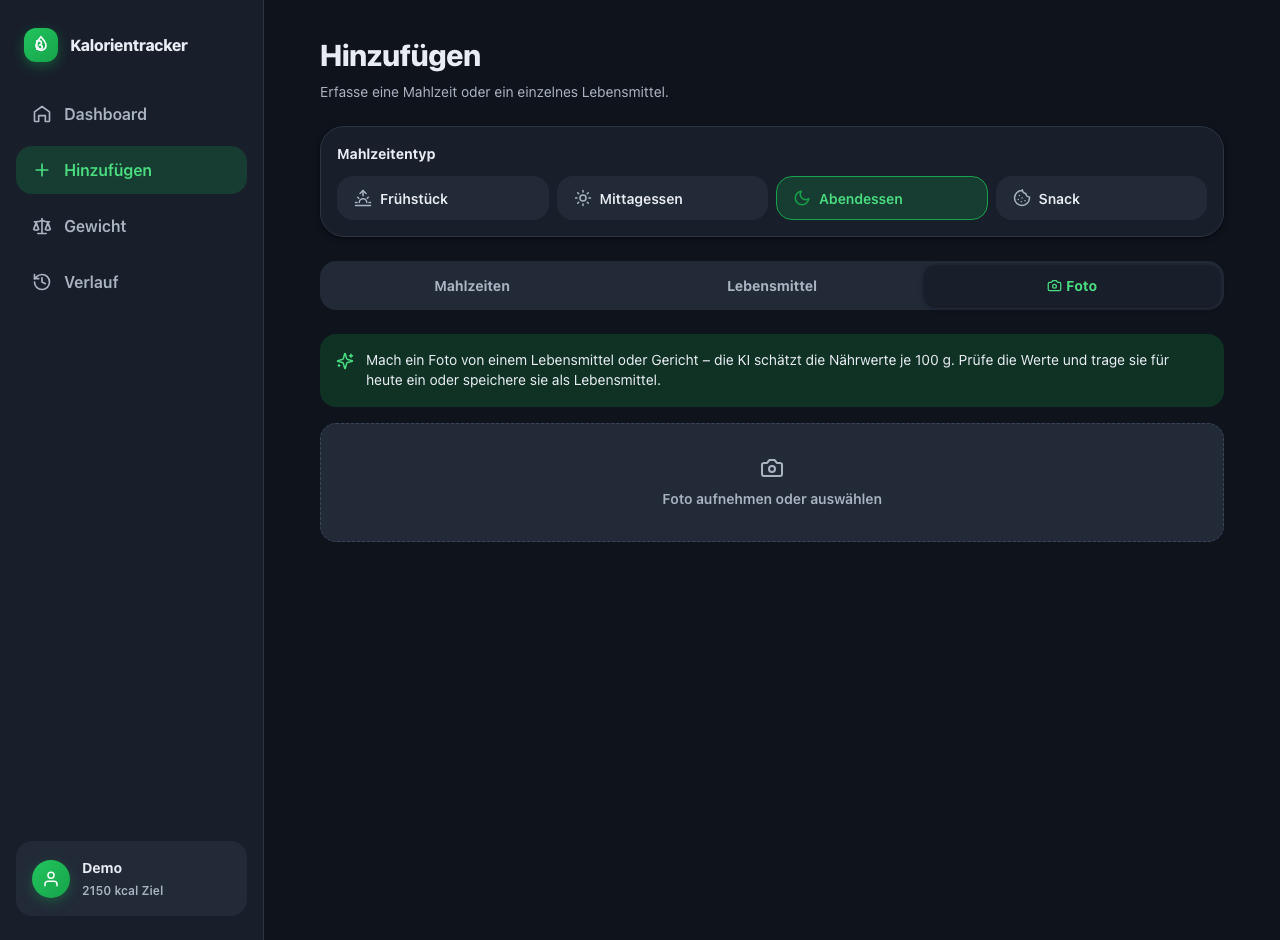
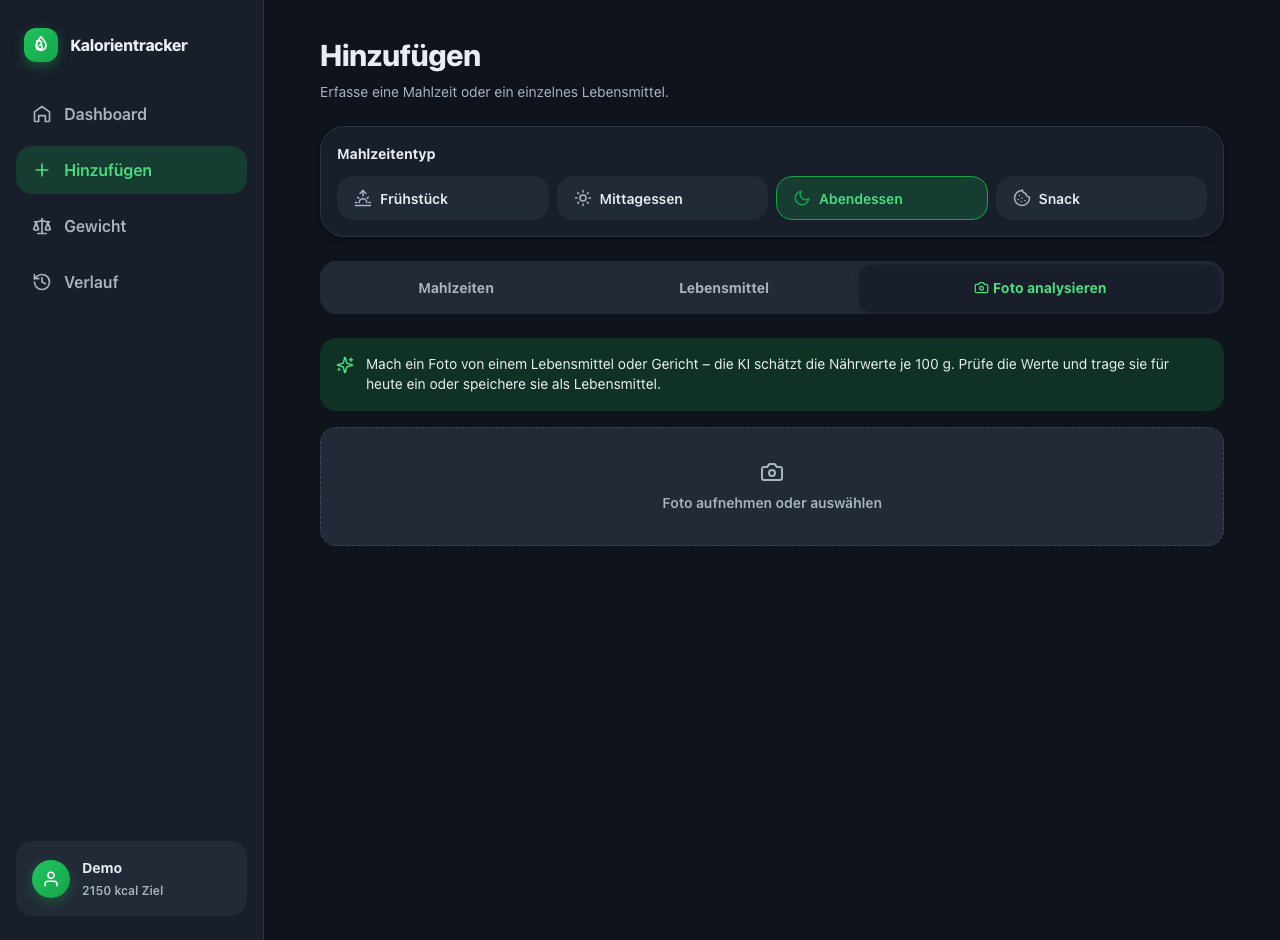
Rename photo tab to Foto analysieren and open camera on tap

Changed region(s): [[0.25, 0.2777, 0.9688, 0.4628], [0.25, 0.4936, 0.9375, 0.5862], [0.7812, 0.2777, 0.875, 0.3085]]

diff --git a/kalorientracker/src/lib/components/PhotoScan.svelte b/kalorientracker/src/lib/components/PhotoScan.svelte
@@ -2,7 +2,7 @@
 	import Icon from './Icon.svelte';
 	import { scaleNutrition } from '$lib/food.js';
 
-	let { selectedType } = $props();
+	let { selectedType, incomingFile = null } = $props();
 
 	let photo = $state('');
 	let photoError = $state('');
@@ -63,8 +63,7 @@
 		});
 	}
 
-	async function onFile(event) {
-		const file = event.currentTarget.files?.[0];
+	async function processFile(file) {
 		if (!file) return;
 		photoError = '';
 		apiError = '';
@@ -79,6 +78,21 @@
 			photoError = 'Bild konnte nicht verarbeitet werden.';
 		}
 	}
+
+	function onFile(event) {
+		processFile(event.currentTarget.files?.[0]);
+	}
+
+	// Foto, das bereits beim Klick auf den Tab „Foto analysieren" gewählt/
+	// aufgenommen wurde, übernehmen.
+	let lastIncoming = null;
+	$effect(() => {
+		const f = incomingFile;
+		if (f && f !== lastIncoming) {
+			lastIncoming = f;
+			processFile(f);
+		}
+	});
 
 	async function estimate() {
 		if (!photo || estimating) return;
@@ -132,7 +146,7 @@
 		<label class="photo-drop">
 			<Icon name="camera" size={24} />
 			<span>Foto aufnehmen oder auswählen</span>
-			<input type="file" accept="image/*" onchange={onFile} hidden />
+			<input type="file" accept="image/*" capture="environment" onchange={onFile} hidden />
 		</label>
 	{:else}
 		<div class="photo-preview">

diff --git a/kalorientracker/src/routes/add/+page.svelte b/kalorientracker/src/routes/add/+page.svelte
@@ -10,6 +10,17 @@
 	const initialTab = page.url.searchParams.get('tab');
 	let tab = $state(initialTab === 'foods' ? 'foods' : initialTab === 'scan' ? 'scan' : 'meals');
 
+	// Foto direkt beim Klick auf den Tab „Foto analysieren" aufnehmen/wählen.
+	let scanFile = $state(null);
+	function onScanFile(event) {
+		const file = event.currentTarget.files?.[0];
+		if (file) {
+			scanFile = file;
+			tab = 'scan';
+		}
+		event.currentTarget.value = '';
+	}
+
 	let mealQuery = $state('');
 	let foodQuery = $state('');
 
@@ -125,10 +136,11 @@
 		<button type="button" class="tab" class:active={tab === 'foods'} onclick={() => (tab = 'foods')}>
 			Lebensmittel
 		</button>
-		<button type="button" class="tab tab-foto" class:active={tab === 'scan'} onclick={() => (tab = 'scan')}>
+		<label class="tab tab-foto" class:active={tab === 'scan'} onclick={() => (tab = 'scan')}>
 			<Icon name="camera" size={15} />
-			<span>Foto</span>
-		</button>
+			<span>Foto analysieren</span>
+			<input type="file" accept="image/*" capture="environment" hidden onchange={onScanFile} />
+		</label>
 	</div>
 
 	{#if tab === 'meals'}
@@ -234,7 +246,7 @@
 		</section>
 	{:else}
 		<section class="panel">
-			<PhotoScan {selectedType} />
+			<PhotoScan {selectedType} incomingFile={scanFile} />
 		</section>
 	{/if}
 </div>
@@ -365,6 +377,8 @@
 		align-items: center;
 		justify-content: center;
 		gap: var(--space-1);
+		flex: 1.4;
+		white-space: nowrap;
 	}
 
 	.panel {

diff --git a/README.md b/README.md
@@ -86,7 +86,7 @@ _(Screenshots der wichtigsten Mockup-Screens unter `/docs/mockups/` ablegen und 
 | `/login` | Registrierung & Anmeldung |
 | `/onboarding` | Ersteinrichtung: Körperdaten → automatisch berechnetes Ziel |
 | `/` | Dashboard (Tagesüberblick: Kalorienring, Makros, Einträge) |
-| `/add` | Hinzufügen-Hub mit Tabs „Mahlzeiten", „Lebensmittel" und „Foto" (KI-Schätzung) |
+| `/add` | Hinzufügen-Hub mit Tabs „Mahlzeiten", „Lebensmittel" und „Foto analysieren" (KI-Schätzung) |
 | `/add/food/new`, `/add/food/[id]` | Eigenes Lebensmittel anlegen / bearbeiten |
 | `/add/meal/new`, `/add/meal/[id]` | Mahlzeit aus Lebensmitteln zusammenstellen / bearbeiten |
 | `/weight` | Gewichtstracker mit Verlaufs-Chart |
@@ -310,9 +310,9 @@ Die folgenden Funktionen gehen über den ursprünglichen Mindestumfang (schlanke
 
 ### 4.8 KI-Nährwertschätzung aus Foto
 
-- **Beschreibung & Nutzen:** Auf der „Hinzufügen"-Seite gibt es neben *Mahlzeiten* und *Lebensmittel* eine dritte Kategorie **„Foto"**. Man nimmt ein Foto eines Lebensmittels oder Gerichts auf (oder wählt eines aus), und ein **multimodales Sprachmodell schätzt daraus die Nährwerte je 100 g/ml** (Kalorien, Protein, Kohlenhydrate, Fett). Die Werte erscheinen in einem editierbaren Formular – man prüft/korrigiert sie und kann den Eintrag **direkt für heute erfassen** oder **als wiederverwendbares Lebensmittel speichern**. Das senkt genau die in der Evaluation kritisierte Hürde der manuellen Nährwerteingabe.
+- **Beschreibung & Nutzen:** Auf der „Hinzufügen"-Seite gibt es neben *Mahlzeiten* und *Lebensmittel* eine dritte Kategorie **„Foto analysieren"**. Ein Klick auf den Tab öffnet **direkt** die Kamera (mobil, via `capture`) bzw. den Dateidialog (Desktop). Aus dem aufgenommenen oder gewählten Foto schätzt ein **multimodales Sprachmodell die Nährwerte je 100 g/ml** (Kalorien, Protein, Kohlenhydrate, Fett). Die Werte erscheinen in einem editierbaren Formular – man prüft/korrigiert sie und kann den Eintrag **direkt für heute erfassen** oder **als wiederverwendbares Lebensmittel speichern**. Das senkt genau die in der Evaluation kritisierte Hürde der manuellen Nährwerteingabe.
 - **Wo umgesetzt:**
-  - **Frontend:** dritter Tab „Foto" in [src/routes/add/+page.svelte](kalorientracker/src/routes/add/+page.svelte) mit der Komponente [src/lib/components/PhotoScan.svelte](kalorientracker/src/lib/components/PhotoScan.svelte) – Foto wird im Browser verkleinert, der Schätz-Endpunkt per `fetch` aufgerufen, die Felder sind editierbar mit Live-Vorschau der Portion.
+  - **Frontend:** dritter Tab „Foto analysieren" in [src/routes/add/+page.svelte](kalorientracker/src/routes/add/+page.svelte) – ein natives Datei-Label mit `capture="environment"`, das beim Klick direkt Kamera/Dateidialog öffnet – mit der Komponente [src/lib/components/PhotoScan.svelte](kalorientracker/src/lib/components/PhotoScan.svelte) – Foto wird im Browser verkleinert, der Schätz-Endpunkt per `fetch` aufgerufen, die Felder sind editierbar mit Live-Vorschau der Portion.
   - **Backend:** Server-Endpunkt [src/routes/api/estimate-nutrition/+server.js](kalorientracker/src/routes/api/estimate-nutrition/+server.js) und KI-Client [src/lib/server/vision.js](kalorientracker/src/lib/server/vision.js) (Vision-Prompt, Aufruf der OpenRouter-API, robustes JSON-Parsing, Validierung/Begrenzung der Werte). Speichern/Eintragen über die Actions `saveScannedFood` bzw. `logFood` in [src/routes/add/+page.server.js](kalorientracker/src/routes/add/+page.server.js).
   - **Konfiguration:** dasselbe `OPENROUTER_API_KEY`/`OPENROUTER_MODEL` wie der KI-Coach; das Modell muss Bildeingabe (Vision) unterstützen (getestet mit `google/gemini-3.1-flash-lite`).
 - **Technik:** OpenRouter wird über die OpenAI-kompatible Chat-Completions-API mit einer **Bild-Nachricht** (Foto als data-URL) angesprochen. Die Antwort ist striktes JSON, das serverseitig validiert wird. Schlägt der Aufruf fehl oder wird kein Lebensmittel erkannt, bleibt die App nutzbar und zeigt eine verständliche Meldung.